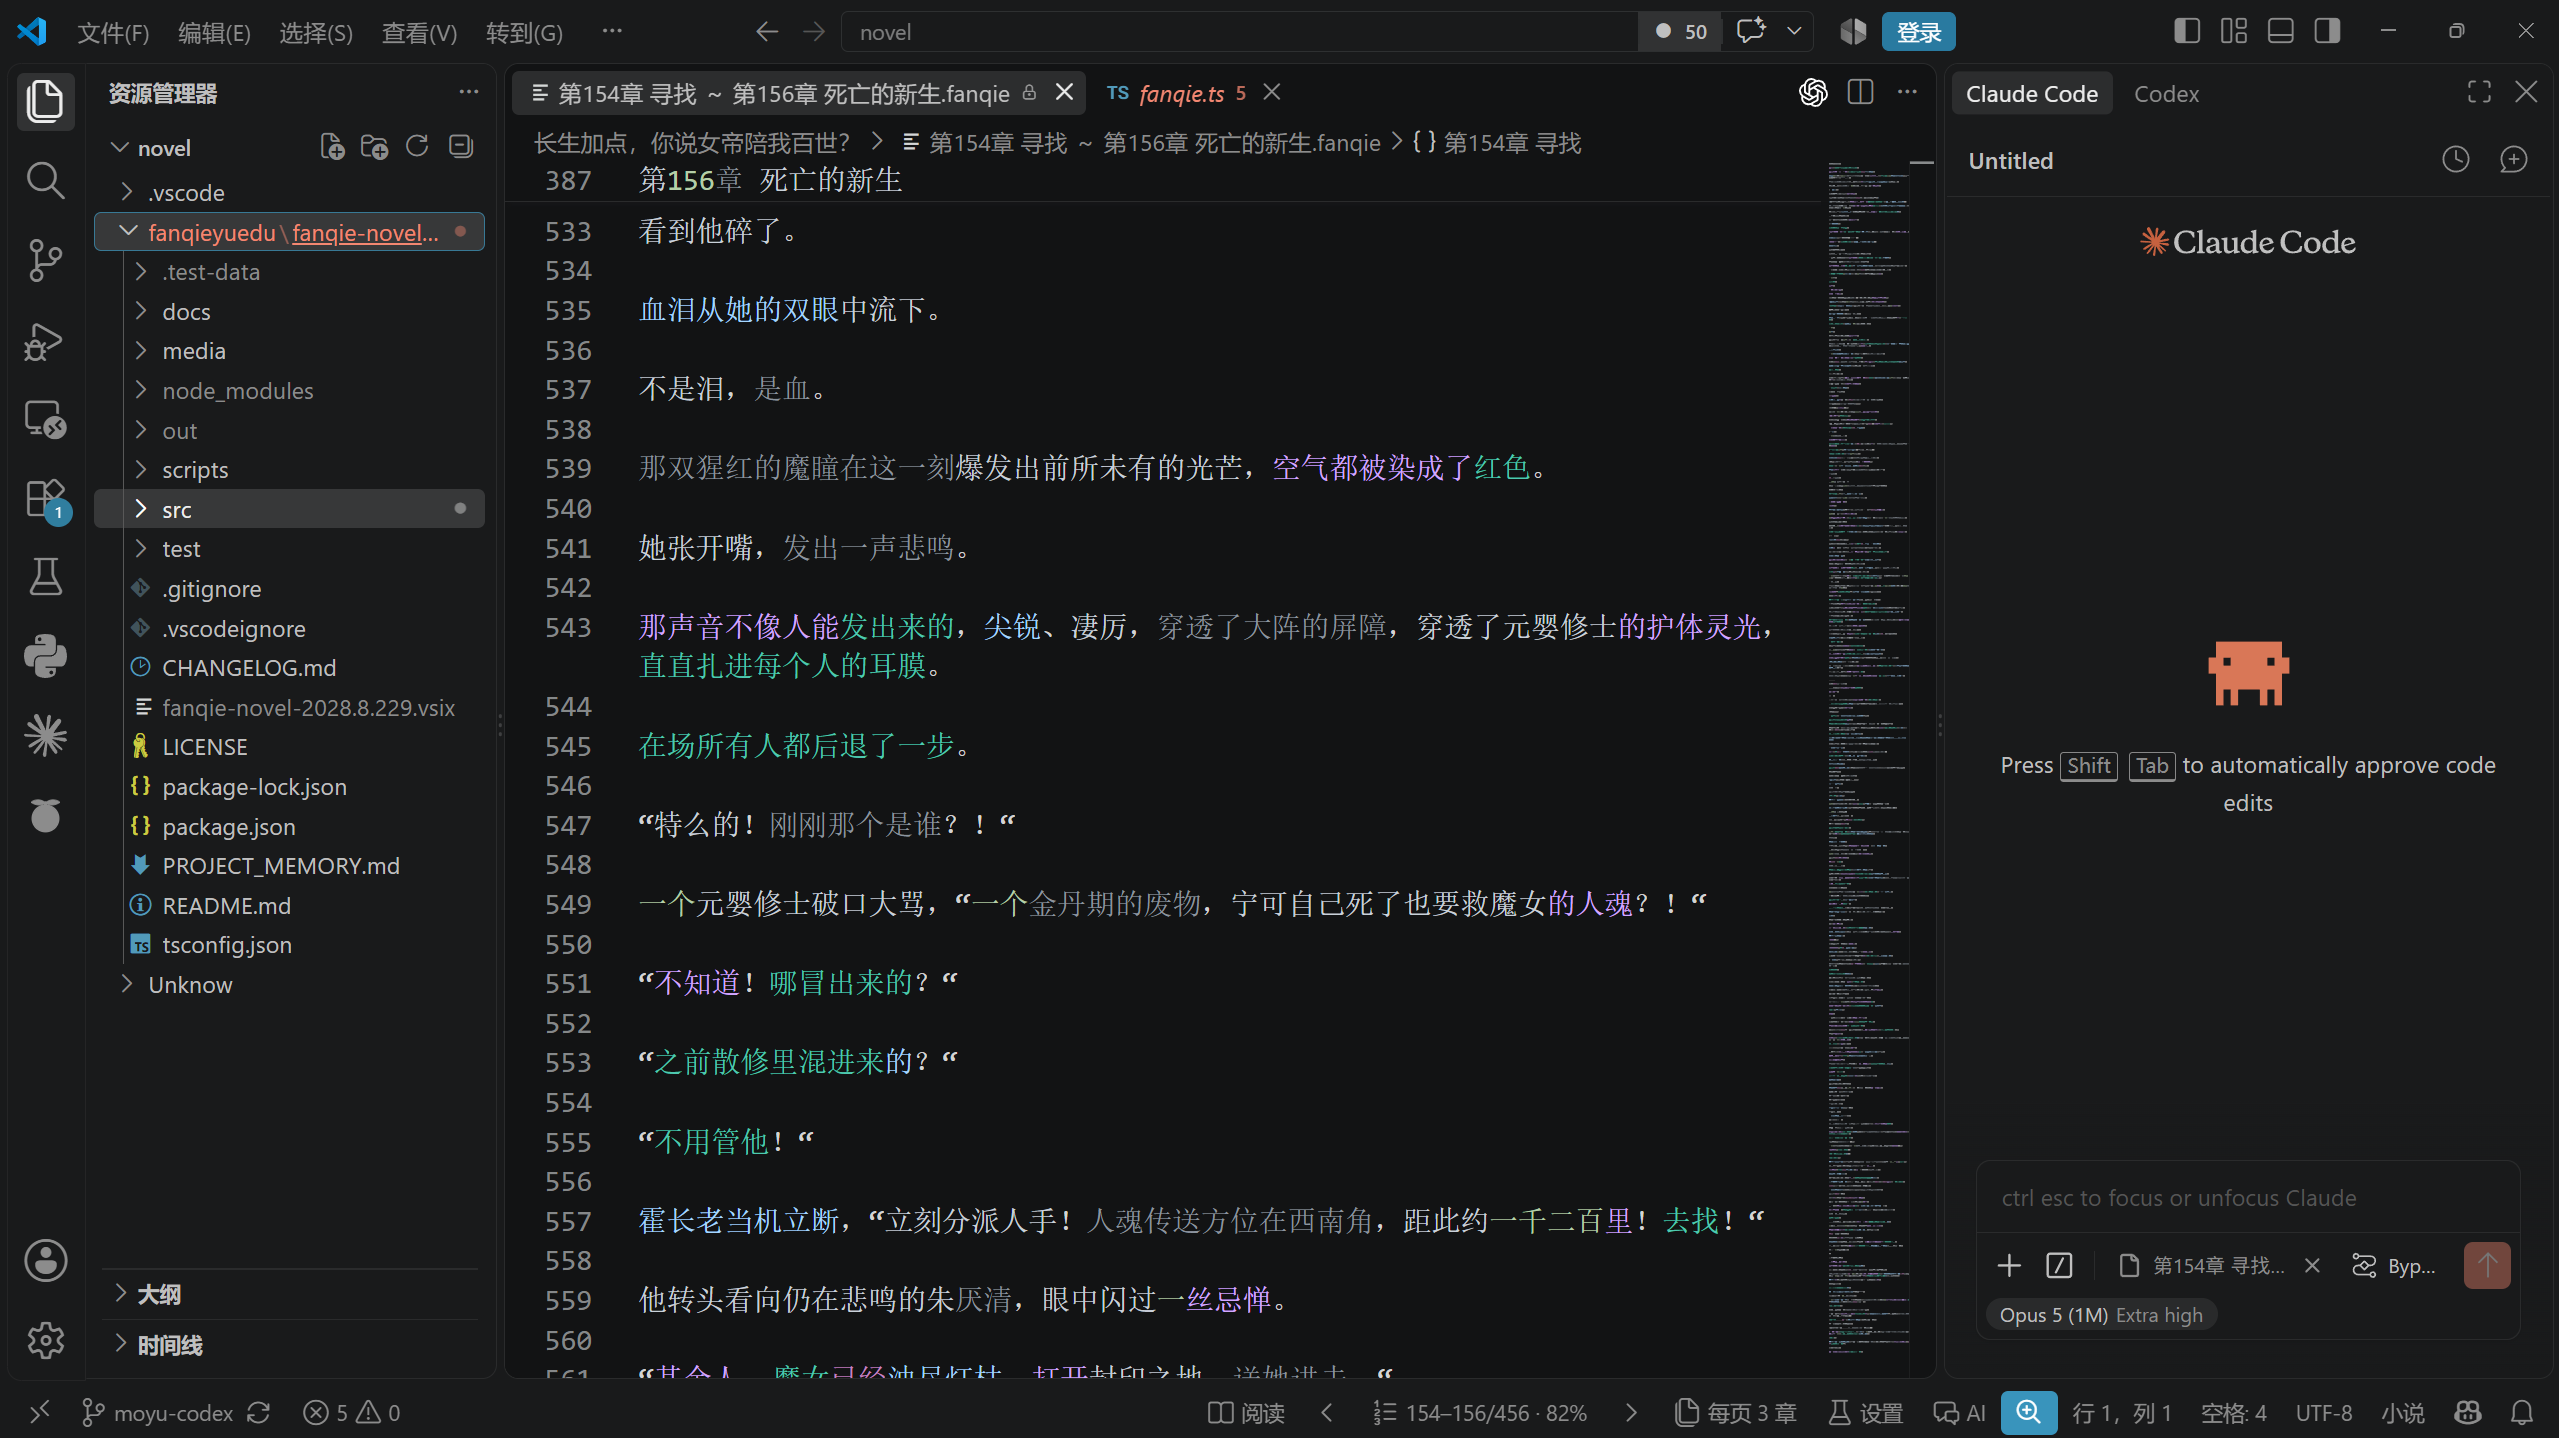
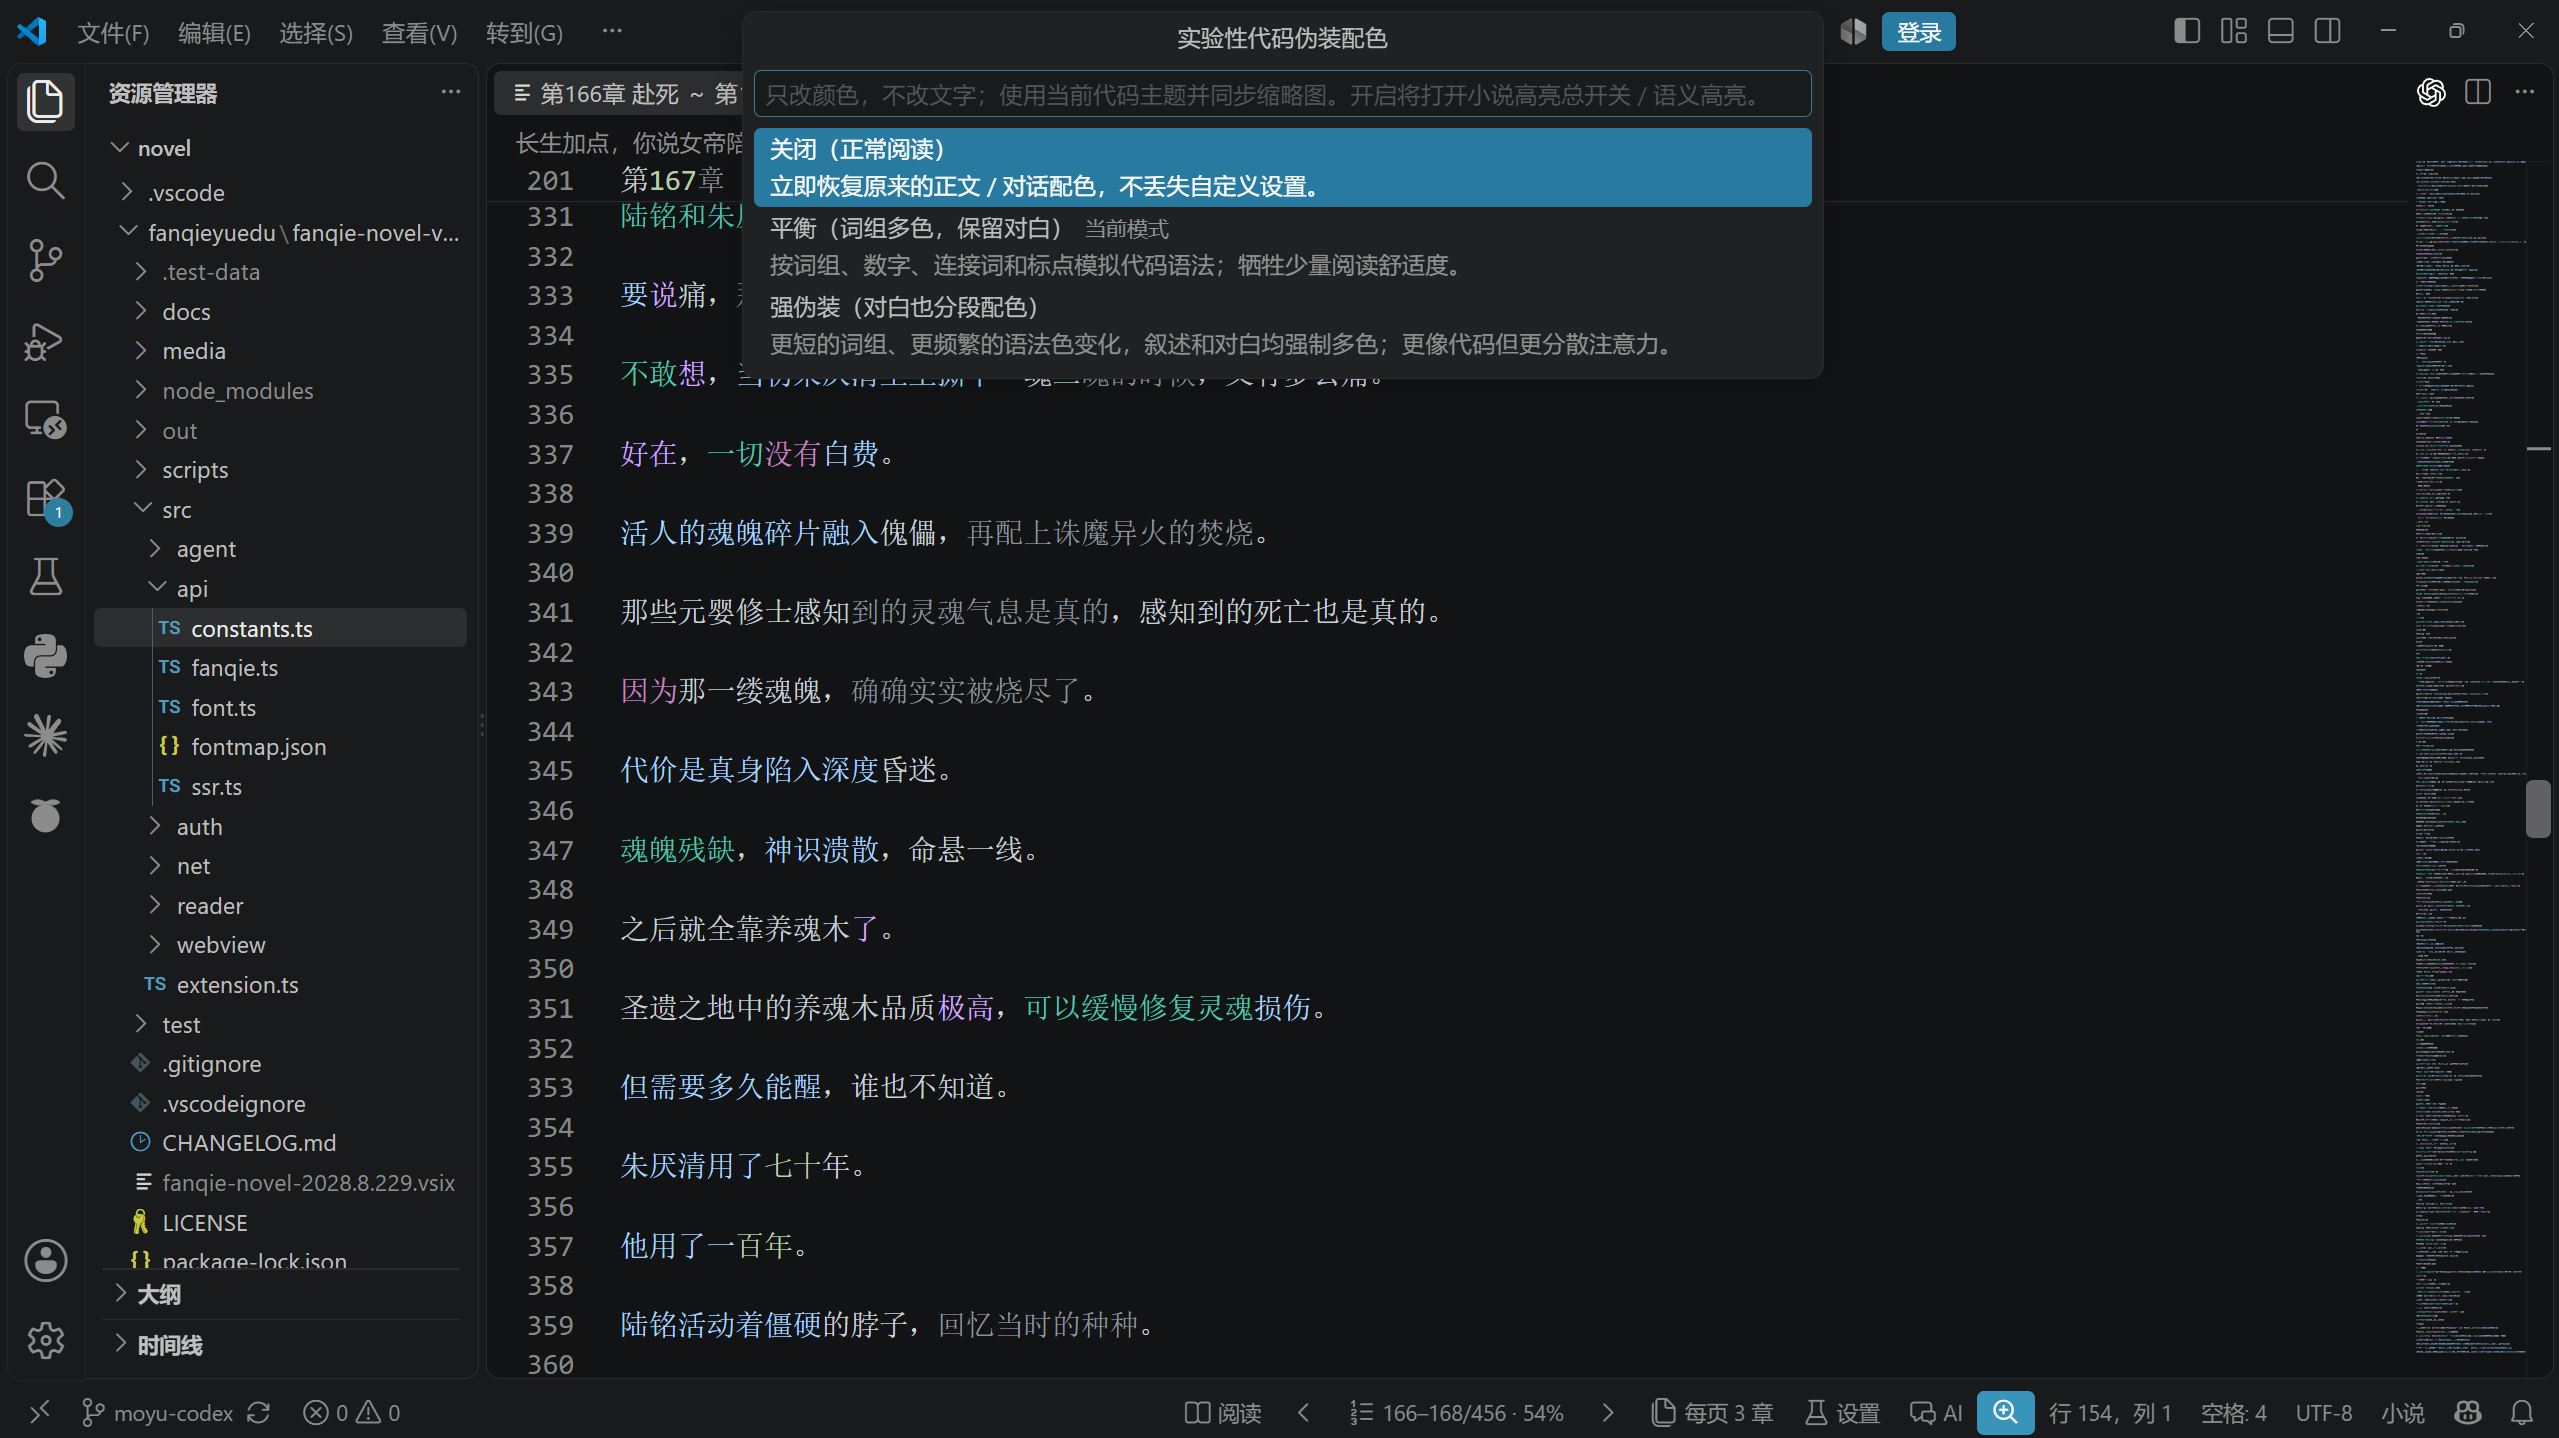
docs: focus README on features and clarify SVIP access

diff --git a/README.md b/README.md
@@ -2,7 +2,7 @@
 
 面向 VS Code 的番茄小说阅读扩展，以**原生阅读、代码伪装与 Codex 上下文交互**为核心功能。正文采用只读文本编辑器，支持原生主题、行号、缩略图、选区与查找，并提供多章合并和阅读进度恢复。
 
-[下载安装](https://github.com/Xinyue-QwQc/moyu-code-reader/releases/latest) · [完整使用指南](docs/reading-guide.md) · [改动记录](CHANGELOG.md) · [上游项目](https://github.com/zwb8926/fanqie-novel-vscode)
+[下载安装](https://github.com/Xinyue-QwQc/moyu-code-reader/releases/latest) · [完整使用指南](docs/reading-guide.md) · [上游项目](https://github.com/zwb8926/fanqie-novel-vscode)
 
 > 本项目基于 [zwb8926/fanqie-novel-vscode](https://github.com/zwb8926/fanqie-novel-vscode) 开发，保留 Fork 关系与 MIT 许可，由维护者独立发布。代码实现、测试与文档编写使用 **OpenAI Codex 辅助**。
 
@@ -10,11 +10,15 @@
 
 ### 原生阅读
 
+- 提供书城浏览、书籍搜索、书架、历史记录与书评，支持扫码登录。
 - 使用 **VS Code 原生只读文本编辑器**展示正文，翻章、目录和阅读设置集中在底部状态栏。
 - 每页可合并 **1–50 章**，默认自动折行、原段落之间空一行。重新打开阅读页或调整每页章节数时，保留章节与章内位置。
 - 提供**已安装字体选择器**，点击即可应用。列表按正文区分中文与非中文，中文字体依据实际字形覆盖筛选。
 - 提供**隐藏文本光标**选项，同时关闭光标所在行的背景、边框和行号区高亮。点击正文、方向键移动及切章后保持该设置，鼠标指针与选区高亮保留。
 - 侧边栏采用响应式布局，适配较窄的显示区域。切换侧边栏后保留当前页面、搜索草稿和滚动状态。
+- 正文与侧边栏支持右键手动刷新。正文刷新保留阅读位置，侧边栏按条目更新阅读进度。
+
+界面示例包括[窄侧边栏](docs/images/narrow-sidebar.png)与[字体选择器](docs/images/font-picker.png)。
 
 ### 代码伪装
 
@@ -28,9 +32,9 @@
 
 在阅读页 **设置 → 实验性代码伪装配色** 中选择模式。该功能仅调整显示颜色，保留小说原文以及复制、查找和 AI 读取所使用的文本；关闭后恢复原有阅读配色。
 
-![代码伪装配色与原生彩色缩略图](docs/images/code-camouflage.png)
+![代码伪装模式选择与阅读界面](docs/images/code-camouflage.png)
 
-*维护者提供的实际阅读界面，展示代码伪装配色、自动折行、段间空行与原生彩色缩略图。*
+*代码伪装模式选择器及实际阅读效果，包含正文分色、段间空行与原生彩色缩略图。*
 
 代码伪装的功能范围为编辑器外观调整。书名、章节名和正文仍可辨认，截屏与录屏会记录实际显示内容。使用时应遵守所在环境的相关规定。
 
@@ -47,54 +51,34 @@
 - 比较前后两章对同一人物的描写，将分析范围限定在已读章节。
 - 根据目录定位指定事件相关的章节，按需读取并整理事件经过。
 
-![Codex 选区附件入口](docs/images/codex-selection.png)
+![Codex 选区附件与上下文交互](docs/images/codex-selection.png)
 
-*隔离测试环境中的选区附件入口。Codex 的登录与模型服务按其自身配置使用。*
+*实际阅读界面中的选区右键菜单与 Codex 会话，展示选区附件及用户提交的分析任务。*
 
 支持本地文件与终端访问的其他 AI 工具，可通过状态栏 **打开上下文文件**获取材料。对接 VS Code Language Model Tools API 的客户端还可调用插件提供的原生阅读工具。具体用法见[完整使用指南](docs/reading-guide.md#让-codex--其他-agent-读取小说)。
 
-## 分支改动
+## 阅读权限
 
-本分支保留上游提供的书城、搜索、扫码登录、书架、历史记录与书评能力，重点增强阅读载体、代码风格配色和 AI 上下文交接。
+本扩展通过**番茄小说网页端接口**获取章节内容，阅读权限与网页端保持一致。**完整章节阅读需要番茄 SVIP 权益**；在本扩展中阅读完整小说，需登录具备相应网页端阅读权益的番茄 SVIP 账号。
 
-| 方向 | 主要改动 |
-| --- | --- |
-| 阅读载体 | 将 Webview 正文改为原生只读文本编辑器，支持原生查找、复制、分屏、滚动与缩略图 |
-| 代码伪装 | 新增平衡与强伪装语义分色，正文和缩略图同步显示，保留原文 |
-| Codex 交互 | 新增选区附件、当前阅读上下文及本地只读访问入口，支持按需读取其他章节 |
-| 长篇续读 | 支持多章合并、原生目录、章内光标与视口恢复，以及布局调整后的位置保留 |
-| 阅读排版 | 默认折行与段间空行，新增语言筛选字体选择器及独立行高、段距与配色 |
-| 右键操作 | 新增字体选择、阅读页刷新、文本光标显示切换，以及按条件展示的 Codex 入口 |
-| 侧边栏稳定性 | 新增窄栏响应式布局与视图状态保留，合并重复请求，按条目更新阅读进度 |
-| 测试覆盖 | 增加单元测试、真实 VS Code 集成测试、重启续读验证及 Codex 附件交接测试 |
-
-界面示例包括[窄侧边栏](docs/images/narrow-sidebar.png)与[字体选择器](docs/images/font-picker.png)。
+普通账号可查看网页端开放的免费章节或试读片段，具体可读范围以番茄网页端当前规则及接口返回内容为准。使用前可在番茄网页端确认账号的 SVIP 权益与目标书籍的完整章节访问权限。
 
 ## 安装与使用
 
 1. 从[本仓库 Releases](https://github.com/Xinyue-QwQc/moyu-code-reader/releases/latest)下载 `.vsix` 文件。
 2. 在 VS Code 扩展视图右上角选择 **… → 从 VSIX 安装**，选取安装包并按提示重载窗口。
-3. 打开活动栏 **番茄小说**，通过书城、搜索、书架或历史记录选择书籍。
+3. 打开活动栏 **番茄小说**并扫码登录。完整章节阅读使用具备网页端权益的番茄 SVIP 账号，再通过书城、搜索、书架或历史记录选择书籍。
 4. 根据阅读需求设置字体、每页章节数和代码伪装模式；使用 AI 分析时，通过正文右键或状态栏交接上下文。
 
 ### 版本兼容性
 
-本分支保留原扩展标识 `zwb8926.fanqie-novel`，用于延续已有书架、设置和阅读进度。安装本仓库的 VSIX 会替换同标识版本，同一扩展标识仅保留一个已安装版本。本分支通过个人 Fork 的 GitHub Release 发布，与上游 Marketplace 发行分别管理。
+本扩展保留原扩展标识 `zwb8926.fanqie-novel`，用于延续已有书架、设置和阅读进度。安装本仓库的 VSIX 会替换同标识版本，同一扩展标识仅保留一个已安装版本。安装包通过本仓库的 GitHub Release 发布，与上游 Marketplace 发行分别管理。
 
 原生阅读和代码伪装可独立使用。使用 Codex 交互功能时，需另行安装并配置 [Codex IDE 扩展](https://developers.openai.com/codex/ide)。
 
-## 分支管理
-
-| 分支 | 用途 |
-| --- | --- |
-| [`moyu-codex`](https://github.com/Xinyue-QwQc/moyu-code-reader/tree/moyu-codex) | 默认增强分支，包含原生阅读、代码伪装与 Codex 交互改动 |
-| [`main`](https://github.com/Xinyue-QwQc/moyu-code-reader/tree/main) | 创建 Fork 时保留的上游主分支基线，用于版本对照与后续同步 |
-
-本地开发以 `upstream` 指向原仓库、`origin` 指向个人 Fork。增强改动推送至 `origin/moyu-codex`，上游更新按需手动合并。
-
 ## AI 辅助开发
 
-本分支由 **[Xinyue-QwQc](https://github.com/Xinyue-QwQc)** 发起维护，使用 **OpenAI Codex** 辅助需求整理、代码实现、问题排查、测试和 README 编写。提交记录中的 `Codex <codex@local.invalid>` 用于标识本地 AI 辅助提交。
+本项目由 **[Xinyue-QwQc](https://github.com/Xinyue-QwQc)** 发起维护，使用 **OpenAI Codex** 辅助需求整理、代码实现、问题排查、测试和 README 编写。提交记录中的 `Codex <codex@local.invalid>` 用于标识本地 AI 辅助提交。
 
 功能说明以实际实现和可复现测试为依据，维护者负责功能取舍、结果复核与后续维护。本项目为个人维护的第三方扩展，非 OpenAI、番茄小说或上游作者的官方发行。上游代码及依赖项目保留各自的作者署名与许可。
 
